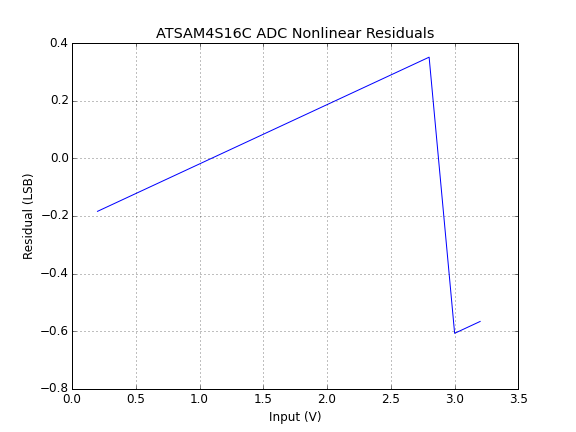
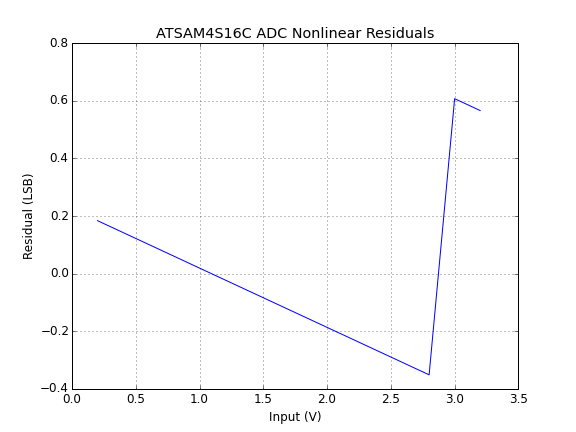
Residuals were computed backwards.
D'oh.

diff --git a/testing/adc/adc_inl.py b/testing/adc/adc_inl.py
@@ -22,7 +22,7 @@ fit_slope, fit_inter = polyfit (test_voltages, adc_out, 1)
 adc_out_ideal = fit_slope * test_voltages + fit_inter
 
 # Residuals
-resid = adc_out_ideal - adc_out
+resid = adc_out - adc_out_ideal
 
 adc_out_fig = figure ()
 plot (test_voltages, adc_out)
